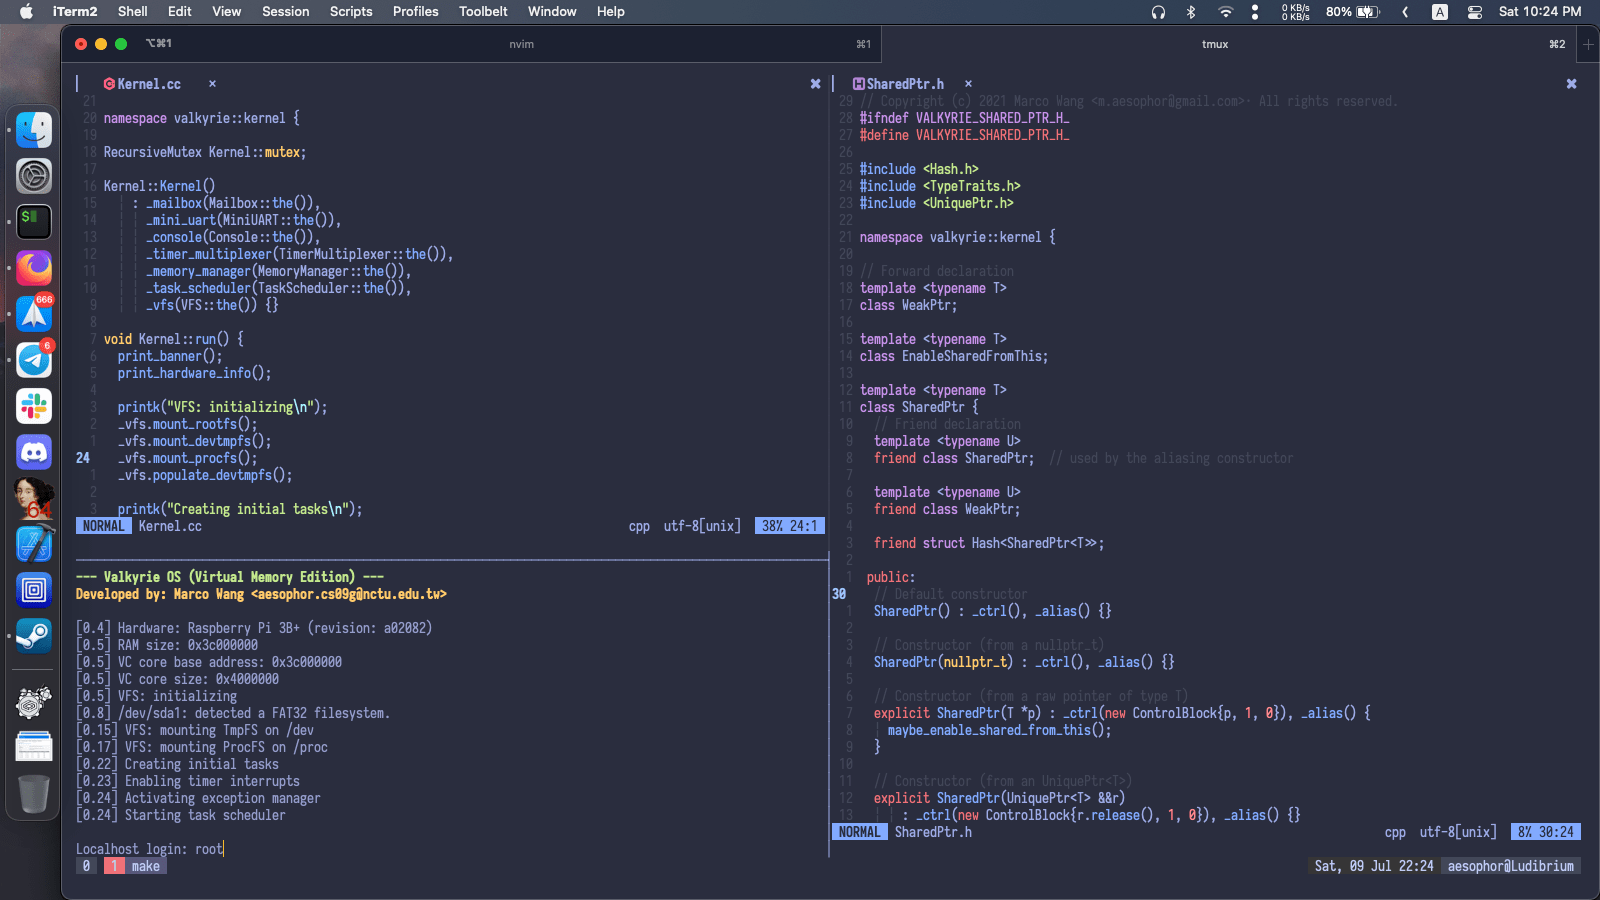
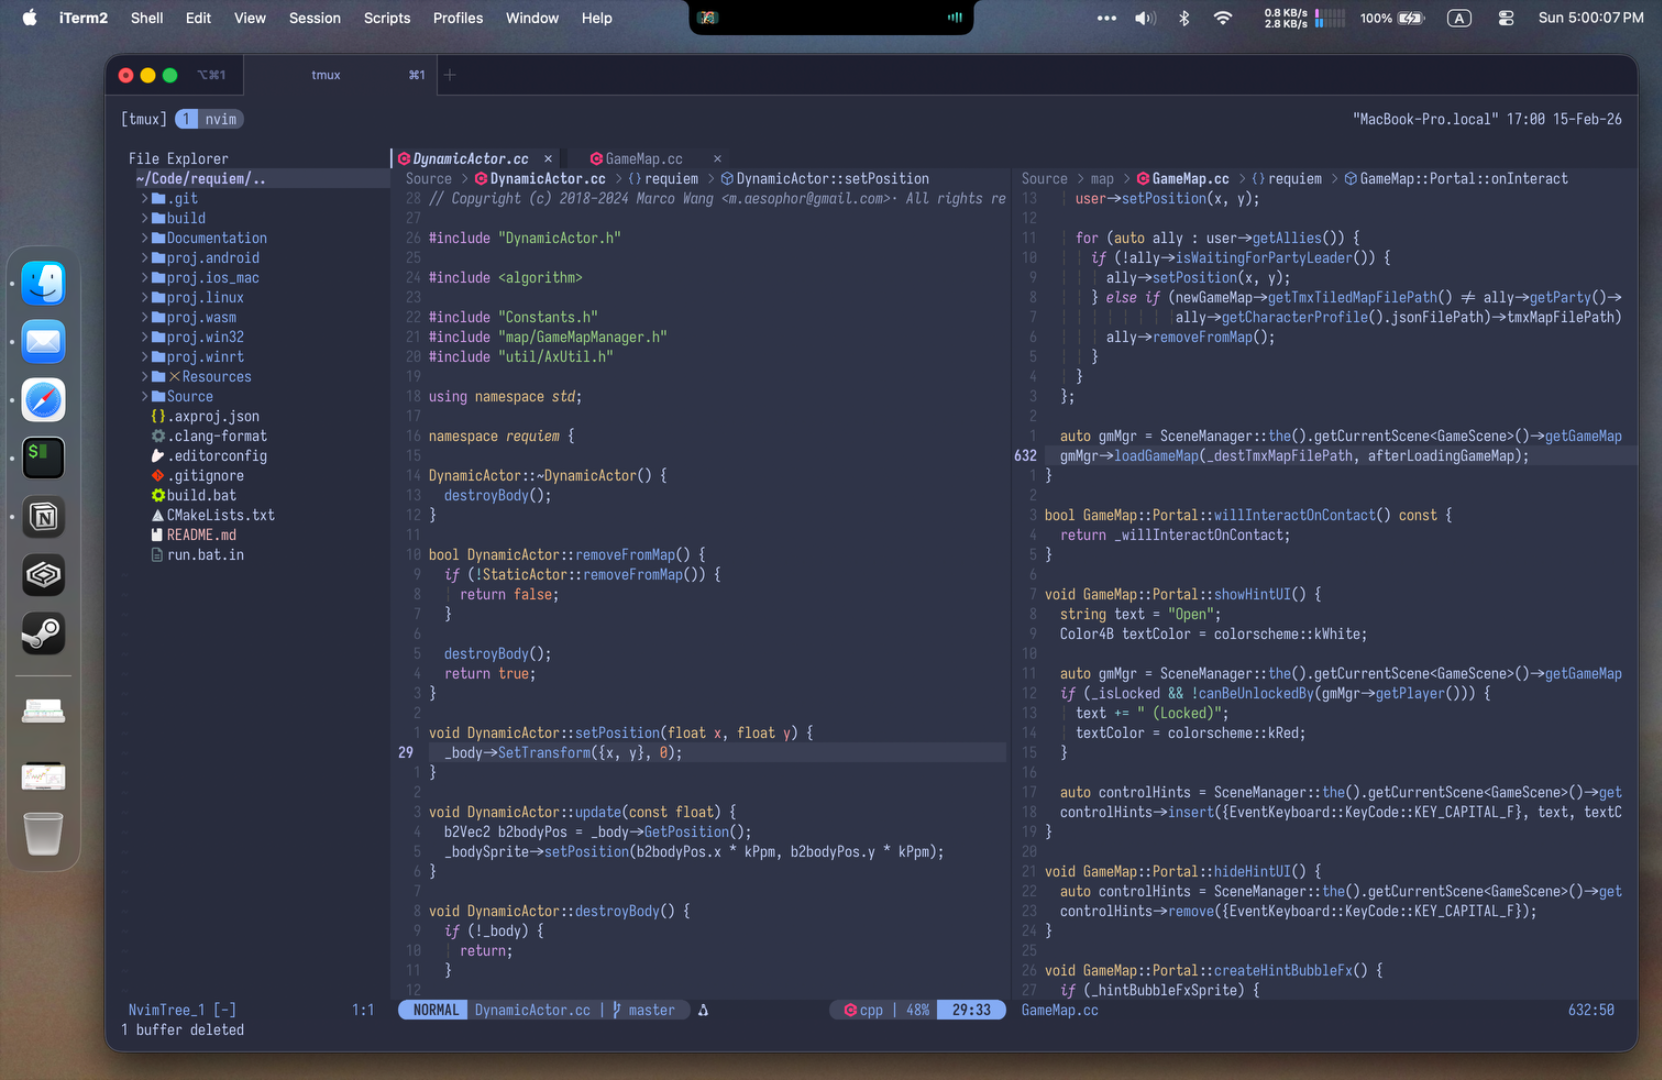
update readme

Changed region(s): [[0.0, 0.0, 1.0, 1.0], [0.25, 0.4978, 0.5312, 0.5911], [0.5312, 0.3111, 0.625, 0.3422]]

diff --git a/README.md b/README.md
@@ -2,7 +2,7 @@
 <h3>.dotfiles</h3>
 <img src="/.meta/cover.png">
 
-`macOS Monterey (12.4)`
+`macOS Tahoe (26.3)`
 </div>
 
 ## Requirements
@@ -30,25 +30,31 @@ To install all the available packages
     * [oh-my-zsh](https://github.com/robbyrussell/oh-my-zsh) - framework for managing your zsh configuration
     * [zsh-autosuggestions](https://github.com/zsh-users/zsh-autosuggestions) - suggest commands as you type, based on command history
     * [zsh-syntax-highlighting](https://github.com/zsh-users/zsh-syntax-highlighting) - fish shell-like syntax highlighting for zsh
-  * [URxvt](https://github.com/exg/rxvt-unicode) - a customizable terminal emulator forked from rxvt
-    * [urxvt-resize-font](https://github.com/simmel/urxvt-resize-font) - resize the font with keybinds
-    * [urxvt-config-reload](https://github.com/regnarg/urxvt-config-reload) - reload urxvt configuration at runtime
+  * [iTerm2](https://iterm2.com) - macOS terminal replacement
     * [Iosevka](https://github.com/be5invis/Iosevka) 14px - terminal font
-    * [wqy-bitmapfont](https://packages.gentoo.org/packages/media-fonts/wqy-bitmapfont) - chinese font
-  * [Neovim](https://github.com/vim/vim) - I write C/C++, Python, shellscripts in Neovim, and Java in IntelliJ IDE.
+  * [Neovim](https://github.com/vim/vim) - I do 99% of my work in neovim
     * [vim-plug](https://github.com/junegunn/vim-plug) - plugin manager
     * [vim-polyglot](https://github.com/sheerun/vim-polyglot) - syntax highlighting
     * [vim-autoclose](https://github.com/Townk/vim-autoclose) - type an `(` and automatically insert `)` for you
-    * [vim-airline](https://github.com/vim-airline/vim-airline) - lean & mean status/tabline
+    * [indentLine](https://github.com/Yggdroot/indentLine) - display indention levels with vertical lines
+    * [vim-anzu](https://github.com/osyo-manga/vim-anzu) - search status
     * [nvim-web-devicons](https://github.com/kyazdani42/nvim-web-devicons) - icon pack for bufferline.nvim
     * [nvim-tree.lua](https://github.com/kyazdani42/nvim-tree.lua) - file explorer
     * [bufferline.nvim](https://github.com/akinsho/bufferline.nvim) - tabline
-    * [indentLine](https://github.com/Yggdroot/indentLine) - display indention levels with vertical lines
+    * [lualine.nvim](https://github.com/nvim-lualine/lualine.nvim) - statusline
+    * [barbecue.nvim](https://github.com/utilyre/barbecue.nvim) - vscode inspired breadcrumbs
     * [a.vim](https://github.com/vim-scripts/a.vim) - fast switching between *.h/*.hpp and *.c/*.cpp
-    * [base16-faded](https://github.com/aesophor/base16-faded/tree/master/colors) - my personal vim colorscheme
+    * [git.nvim](https://github.com/dinhhuy258/git.nvim) - git blame the god damn bastard who wrote this line
   * [git](https://github.com/git/git) - distributed version-control system
     * [diff-so-fancy](https://github.com/so-fancy/diff-so-fancy) - git diff made human-readable!
-  * [displayctl](https://github.com/aesophor/displayctl) - resolution, brightness, wallpaper, lockscreen manager
+  * [rmpc](https://github.com/mierak/rmpc) - modern, configurable, terminal based MPD Client
   * [py-todo](https://github.com/aesophor/py-todo) - lightweight cli todo-list
-  * [pfetch](https://github.com/dylanaraps/pfetch) - display system info
-  * [ncmpcpp](https://github.com/arybczak/ncmpcpp) - ncurses based music player
+
+* GUI
+  * [Alcove](https://tryalcove.com) - Dynamic island for you mac ($13.99)
+  * [AltTab](https://alt-tab-macos.netlify.app) - Windows alt-tab on macOS (free)
+  * [BetterDisplay](https://betterdisplay.pro) - Unlock HiDPI for any screen (free)
+  * [BetterMouse](https://better-mouse.com) - Comprehensive mouse utility ($7.99)
+  * [BetterZip](https://macitbetter.com) - The most advanced zip and rar archiver ($24.95)
+  * [Ice](https://github.com/jordanbaird/Ice) - Powerful menu bar manager for macOS (free)
+  * [LittleSnitch](https://www.obdev.at/products/littlesnitch) - (€59.00)
